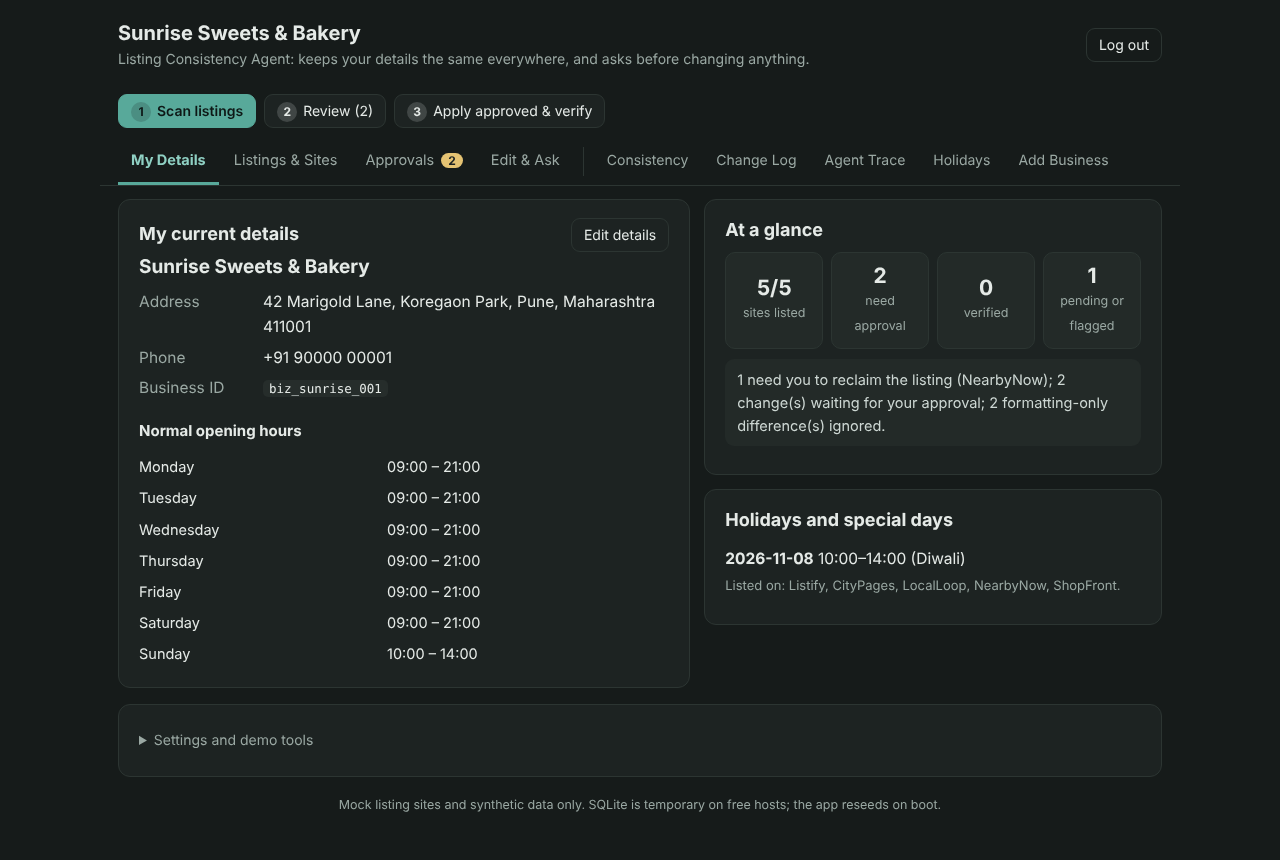
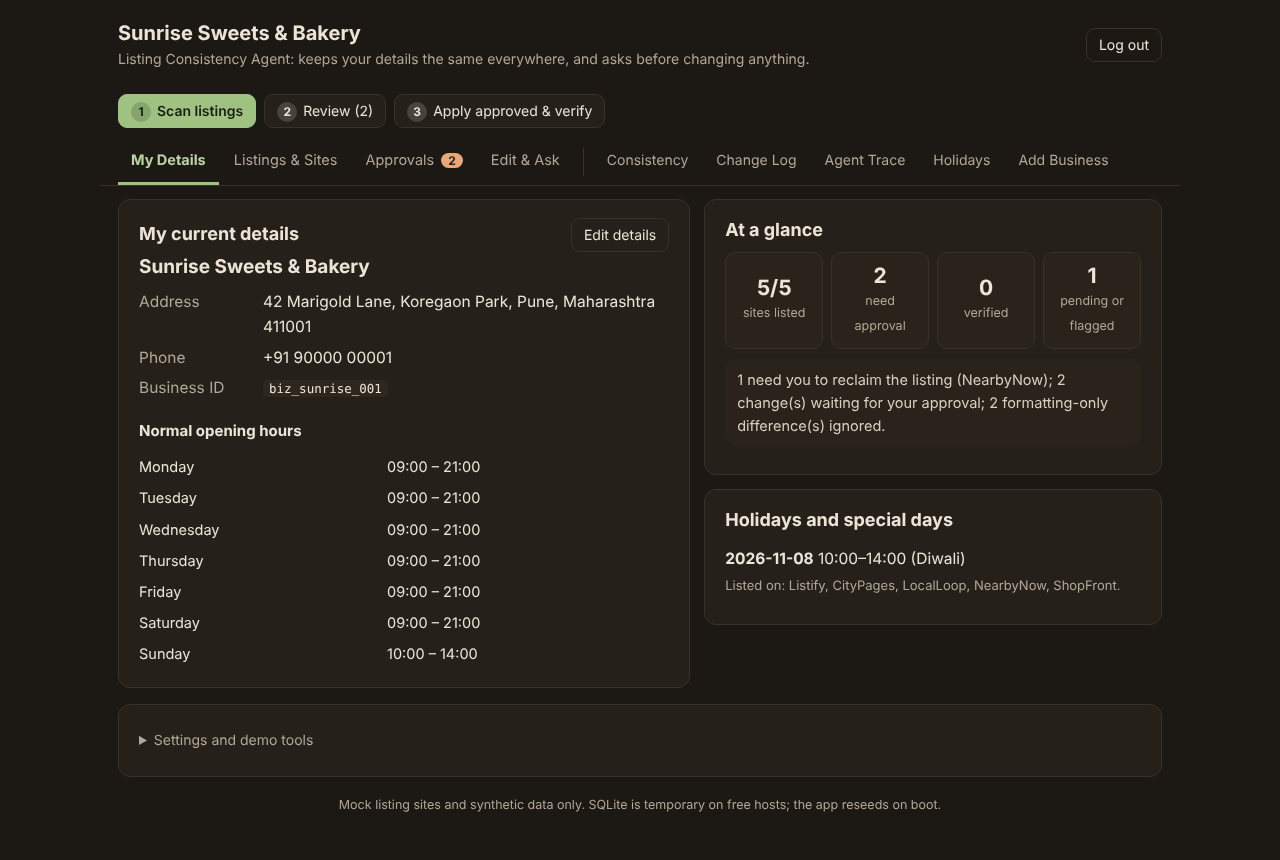
Warm beige palette: olive-sage actions, terracotta for "needs you"
- Replace the teal-green accent (still read as blue-ish) with a beige page,
  cream cards, warm brown text and a muted olive-sage accent; warm dark mode.
- Terracotta (--clay) marks what needs the owner, sand marks in-progress,
  rose red is kept for blocked/errors only so an action never looks like an error.
- Rename amber variables/classes to clay; fix leftover a-blue class (30-day
  holiday alert was unstyled).
- Contrast of every text/background pair checked at 4.5:1 or better.
- Screenshots regenerated (light and dark); README and PROGRESS updated.

Claude-Session: https://claude.ai/code/session_013nXkhptTHtEYhZRNWsHqPM

Changed region(s): [[0.0938, 0.0907, 0.2188, 0.1512], [0.0938, 0.1814, 0.1562, 0.2419], [0.3438, 0.1814, 0.375, 0.2116]]

diff --git a/web/src/styles.css b/web/src/styles.css
@@ -1,17 +1,17 @@
-/* Calm palette: warm off-white, soft charcoal text, one muted teal-green accent.
-   Meaning is carried by only four status colours: green = done, amber = needs you, red = blocked, teal = in progress. */
+/* Warm palette: beige page, cream cards, warm brown text, one muted olive-sage accent for actions.
+   Status colours carry meaning only: green = done, clay (terracotta) = needs you, sand = in progress, rose red = blocked. */
 :root {
-  --bg: #f7f6f2; --card: #fffefb; --ink: #2a3330; --muted: #5c6a65; --line: #e5e2d9;
-  --brand: #2f7468; --brand-hover: #28655b; --brand-ink: #ffffff; --brand-soft: #e2efeb; --brand-text: #1f5a50;
-  --green: #3b6b2a; --green-bg: #e7f0df; --amber: #7d5210; --amber-bg: #f7ecd2; --red: #a03428; --red-bg: #f8e3df;
-  --gray-bg: #eeece5; --soft-bg: #f0eee7; --soft-ink: #3d4a46;
+  --bg: #f4eee3; --card: #fbf8f1; --ink: #3a312a; --muted: #6a5e51; --line: #e2d8c6;
+  --brand: #54733f; --brand-hover: #486536; --brand-ink: #ffffff; --brand-soft: #ebe2cf; --brand-text: #3f5a2e;
+  --green: #36612a; --green-bg: #dfebd2; --clay: #8a431f; --clay-bg: #f4dcc8; --red: #9b2a38; --red-bg: #f7dadd;
+  --gray-bg: #ece4d5; --soft-bg: #f0e9db; --soft-ink: #4a4036;
 }
 @media (prefers-color-scheme: dark) {
   :root {
-    --bg: #161b1a; --card: #1d2322; --ink: #e5eae7; --muted: #9aa8a3; --line: #2c3532;
-    --brand: #58a99a; --brand-hover: #6ab9aa; --brand-ink: #0e1816; --brand-soft: #1f3a35; --brand-text: #8fd0c3;
-    --green: #a6d08c; --green-bg: #24331d; --amber: #e5c373; --amber-bg: #3a2f14; --red: #f0a198; --red-bg: #3b2220;
-    --gray-bg: #262d2b; --soft-bg: #232a28; --soft-ink: #cdd7d3;
+    --bg: #1c1814; --card: #25201a; --ink: #ece4d6; --muted: #b3a796; --line: #3a3228;
+    --brand: #9fc283; --brand-hover: #b2d398; --brand-ink: #17200f; --brand-soft: #332c20; --brand-text: #b9d3a2;
+    --green: #a8cf8d; --green-bg: #263320; --clay: #eaa87a; --clay-bg: #40291b; --red: #f2a3ad; --red-bg: #412127;
+    --gray-bg: #2d271f; --soft-bg: #29231c; --soft-ink: #d8cfbf;
   }
 }
 * { box-sizing: border-box; }
@@ -39,7 +39,7 @@ code { background: var(--gray-bg); padding: 1px 6px; border-radius: 5px; font-si
 @media (max-width: 560px) { .kv { grid-template-columns: 1fr; gap: 0; } .kv dd { margin-bottom: 8px; } }
 ul.plain { list-style: none; padding: 0; margin: 0; } ul.plain li { padding: 4px 0; }
 .struck { text-decoration: line-through; opacity: .6; }
-.tag { margin-left: 6px; background: var(--gray-bg); border-radius: 5px; padding: 0 7px; font-size: 12px; } .tag.warn { background: var(--amber-bg); color: var(--amber); }
+.tag { margin-left: 6px; background: var(--gray-bg); border-radius: 5px; padding: 0 7px; font-size: 12px; } .tag.warn { background: var(--clay-bg); color: var(--clay); }
 .row-between { display: flex; justify-content: space-between; gap: 8px; align-items: center; flex-wrap: wrap; }
 .plat { border-top: 1px solid var(--line); padding-top: 10px; margin-top: 14px; } .plat-h { display: flex; justify-content: space-between; align-items: center; gap: 8px; flex-wrap: wrap; } .plat-h h2, .plat-h h3 { margin: 0; }
 .empty { text-align: center; padding: 30px 12px; color: var(--ink); } .empty .muted { margin-top: 4px; }
@@ -63,19 +63,19 @@ label { font-size: 14px; } .radio { display: flex; gap: 8px; align-items: flex-s
 
 /* messages */
 .summary { background: var(--soft-bg); color: var(--soft-ink); padding: 9px 12px; border-radius: 9px; margin: 10px 0; font-size: 14.5px; } .summary.slim { padding: 6px 11px; font-size: 13.5px; }
-.alert { padding: 9px 12px; border-radius: 9px; margin: 8px 0; font-size: 14.5px; } .a-red { background: var(--red-bg); color: var(--red); } .a-amber { background: var(--amber-bg); color: var(--amber); } .a-soft { background: var(--soft-bg); color: var(--soft-ink); }
+.alert { padding: 9px 12px; border-radius: 9px; margin: 8px 0; font-size: 14.5px; } .a-red { background: var(--red-bg); color: var(--red); } .a-clay { background: var(--clay-bg); color: var(--clay); } .a-soft { background: var(--soft-bg); color: var(--soft-ink); }
 .err { color: var(--red); } .ok { color: var(--green); font-weight: 600; }
-.note { margin: 8px 0 0; padding: 8px 11px; border-radius: 8px; font-size: 13.5px; } .note.red { background: var(--red-bg); color: var(--red); } .note.amber { background: var(--amber-bg); color: var(--amber); }
+.note { margin: 8px 0 0; padding: 8px 11px; border-radius: 8px; font-size: 13.5px; } .note.red { background: var(--red-bg); color: var(--red); } .note.clay { background: var(--clay-bg); color: var(--clay); }
 .spin { display: inline-flex; align-items: center; gap: 8px; color: var(--muted); font-size: 14px; } .spin::before { content: ""; width: 14px; height: 14px; border-radius: 50%; border: 2px solid var(--line); border-top-color: var(--brand); animation: turn .8s linear infinite; }
 @keyframes turn { to { transform: rotate(360deg); } }
 
-/* status pills: green = done, amber = needs you, teal = in progress, red = blocked */
+/* status pills: green = done, clay = needs you, sand = in progress, rose red = blocked */
 .pill { display: inline-block; padding: 1px 10px; border-radius: 999px; font-size: 12.5px; font-weight: 600; white-space: nowrap; background: var(--gray-bg); color: var(--soft-ink); }
 .s-MATCH, .s-VERIFIED { background: var(--green-bg); color: var(--green); } .s-FORMAT_ONLY_EQUIVALENT, .s-APPROVED, .s-APPLIED { background: var(--brand-soft); color: var(--brand-text); }
-.s-MISMATCH, .s-PROPOSED { background: var(--amber-bg); color: var(--amber); } .s-PENDING_MODERATION { background: var(--amber-bg); color: var(--amber); border: 1px dashed var(--amber); }
+.s-MISMATCH, .s-PROPOSED { background: var(--clay-bg); color: var(--clay); } .s-PENDING_MODERATION { background: var(--clay-bg); color: var(--clay); border: 1px dashed var(--clay); }
 .s-FLAGGED_NOT_OWNER { background: var(--red-bg); color: var(--red); } .s-REJECTED { background: var(--gray-bg); color: var(--muted); }
 .chips { display: flex; flex-wrap: wrap; gap: 6px; margin: 10px 0; } .chip { padding: 3px 11px; border-radius: 999px; font-size: 13.5px; background: var(--gray-bg); }
-.c-info { background: var(--soft-bg); color: var(--soft-ink); } .c-NOT_SET { background: var(--red-bg); color: var(--red); } .c-RECORD_ONLY, .c-MISMATCH { background: var(--amber-bg); color: var(--amber); } .c-CONSISTENT { background: var(--green-bg); color: var(--green); }
+.c-info { background: var(--soft-bg); color: var(--soft-ink); } .c-NOT_SET { background: var(--red-bg); color: var(--red); } .c-RECORD_ONLY, .c-MISMATCH { background: var(--clay-bg); color: var(--clay); } .c-CONSISTENT { background: var(--green-bg); color: var(--green); }
 
 /* tabs */
 .sticky { position: sticky; top: 0; z-index: 20; background: var(--bg); margin: 0 -18px 14px; padding: 0 18px; box-shadow: 0 1px 0 var(--line); }
@@ -84,7 +84,7 @@ label { font-size: 14px; } .radio { display: flex; gap: 8px; align-items: flex-s
 .tab { flex: 0 0 auto; background: none; border: none; border-bottom: 3px solid transparent; color: var(--muted); padding: 10px 13px; font: inherit; font-size: 14.5px; cursor: pointer; white-space: nowrap; }
 .tab:hover { color: var(--ink); background: var(--gray-bg); border-radius: 8px 8px 0 0; } .tab.on { color: var(--brand-text); border-bottom-color: var(--brand); font-weight: 650; }
 .tab.more { font-size: 14px; } .tabsep { flex: 0 0 1px; background: var(--line); margin: 9px 8px; }
-.tabcount { margin-left: 7px; background: var(--amber); color: var(--card); border-radius: 999px; padding: 0 7px; font-size: 12px; font-weight: 700; }
+.tabcount { margin-left: 7px; background: var(--clay); color: var(--card); border-radius: 999px; padding: 0 7px; font-size: 12px; font-weight: 700; }
 
 /* details tab */
 .stats { display: grid; grid-template-columns: repeat(4, 1fr); gap: 8px; margin: 8px 0; }
@@ -98,8 +98,8 @@ details.tools { margin-top: 2px; } details.tools summary { cursor: pointer; colo
 .chipbar { display: flex; gap: 6px; flex-wrap: wrap; margin: 10px 0; }
 .fchip { background: var(--gray-bg); border: 1px solid transparent; color: var(--ink); border-radius: 999px; padding: 3px 12px; font: inherit; font-size: 13.5px; cursor: pointer; } .fchip:hover { border-color: var(--brand); }
 .fchip.on { background: var(--brand-soft); color: var(--brand-text); border-color: var(--brand); font-weight: 650; } .fchip .cnt { opacity: .75; font-size: 12.5px; margin-left: 3px; }
-.fcard { border: 1px solid var(--line); border-left: 4px solid var(--amber); border-radius: 10px; padding: 12px 14px; margin: 10px 0; background: var(--card); }
-.f-FLAGGED_NOT_OWNER { border-left-color: var(--red); background: var(--red-bg); } .f-PENDING_MODERATION { border-left-color: var(--amber); background: var(--amber-bg); }
+.fcard { border: 1px solid var(--line); border-left: 4px solid var(--clay); border-radius: 10px; padding: 12px 14px; margin: 10px 0; background: var(--card); }
+.f-FLAGGED_NOT_OWNER { border-left-color: var(--red); background: var(--red-bg); } .f-PENDING_MODERATION { border-left-color: var(--clay); background: var(--clay-bg); }
 .f-VERIFIED, .f-MATCH { border-left-color: var(--green); } .f-REJECTED { border-left-color: var(--muted); opacity: .8; } .f-APPLIED, .f-APPROVED { border-left-color: var(--brand); }
 .fc-top { display: flex; justify-content: space-between; gap: 8px; align-items: center; } .fc-diff { display: grid; grid-template-columns: 1fr auto 1fr; gap: 10px; align-items: center; margin: 8px 0; }
 .arrow { color: var(--muted); } .lbl { font-size: 12px; text-transform: uppercase; letter-spacing: .04em; color: var(--muted); } .reason { margin: 2px 0; color: var(--muted); font-size: 13.5px; }
@@ -117,7 +117,7 @@ table.compact td:has(.small), table.compact td:has(.pre) { white-space: normal; 
 table.mini th, table.mini td { font-size: 13px; }
 .filters { display: flex; gap: 8px; align-items: center; justify-content: space-between; flex-wrap: wrap; }
 .kind { font-size: 12px; padding: 0 8px; border-radius: 5px; background: var(--gray-bg); white-space: nowrap; }
-.k-details, .k-approval, .k-site { background: var(--brand-soft); color: var(--brand-text); } .k-holiday { background: var(--amber-bg); color: var(--amber); } .k-verified { background: var(--green-bg); color: var(--green); }
+.k-details, .k-approval, .k-site { background: var(--brand-soft); color: var(--brand-text); } .k-holiday { background: var(--clay-bg); color: var(--clay); } .k-verified { background: var(--green-bg); color: var(--green); }
 .chk span { margin-right: 6px; }
 
 /* edit & ask */
@@ -139,11 +139,11 @@ ul.hol { list-style: none; padding: 0; margin: 10px 0; } ul.hol li { display: fl
 @keyframes bob { 50% { transform: translateY(-4px) rotate(-6deg); } }
 .tstep { position: relative; display: flex; gap: 10px; padding: 9px 10px 9px 0; border-top: 1px solid var(--line); border-radius: 8px; transition: background .2s; } .tstep:first-of-type { border-top: none; }
 .tstep .dot { position: absolute; left: -29px; top: 13px; width: 12px; height: 12px; border-radius: 50%; background: var(--card); border: 2px solid var(--muted); z-index: 2; transition: transform .2s, border-color .2s, background .2s; }
-.tstep .dot.d-Gemini { border-color: var(--brand); } .tstep .dot.d-Fallback { border-color: var(--amber); } .tstep .dot.d-Blocked { border-color: var(--red); background: var(--red-bg); }
+.tstep .dot.d-Gemini { border-color: var(--brand); } .tstep .dot.d-Fallback { border-color: var(--clay); } .tstep .dot.d-Blocked { border-color: var(--red); background: var(--red-bg); }
 .tstep.passed .dot { background: var(--brand); border-color: var(--brand); } .tstep.now { background: var(--brand-soft); } .tstep.now .dot { transform: scale(1.4); background: var(--brand); border-color: var(--brand); } .tstep.tr-Blocked.now { background: var(--red-bg); }
 .tbody { min-width: 0; flex: 1; } .thead { display: flex; gap: 8px; align-items: center; flex-wrap: wrap; font-size: 13px; } .tno, .thead .time, .thead .dur { color: var(--muted); font-size: 12.5px; } .thead .dur { margin-left: auto; }
 .tout { font-size: 14px; margin-top: 3px; word-break: break-word; } .tin { font-size: 12.5px; color: var(--muted); font-family: ui-monospace, Menlo, Consolas, monospace; word-break: break-all; } .tnote { font-size: 12.5px; color: var(--muted); font-style: italic; }
-.dbadge { padding: 0 9px; border-radius: 999px; font-size: 12px; font-weight: 600; white-space: nowrap; background: var(--gray-bg); color: var(--soft-ink); } .d-Gemini { background: var(--brand-soft); color: var(--brand-text); } .d-Fallback { background: var(--amber-bg); color: var(--amber); } .d-Blocked { background: var(--red-bg); color: var(--red); }
+.dbadge { padding: 0 9px; border-radius: 999px; font-size: 12px; font-weight: 600; white-space: nowrap; background: var(--gray-bg); color: var(--soft-ink); } .d-Gemini { background: var(--brand-soft); color: var(--brand-text); } .d-Fallback { background: var(--clay-bg); color: var(--clay); } .d-Blocked { background: var(--red-bg); color: var(--red); }
 .hint { margin: 2px 0 10px; } .trace { max-height: 420px; overflow: auto; font-size: 13px; } .tr { display: flex; gap: 8px; padding: 5px 0; border-top: 1px solid var(--line); align-items: baseline; } .tr-Blocked { background: var(--red-bg); } .tr .tool { flex: 0 0 auto; } .tr .tout { margin: 0; }
 @media (max-width: 560px) { .trace-scroll { padding-left: 38px; } }
 @media (prefers-reduced-motion: reduce) { .walker, .rail-done, .tstep .dot, .spin::before { transition: none; animation: none; } .walker-emoji { animation: none; } }

diff --git a/web/src/tabs/ApprovalsTab.tsx b/web/src/tabs/ApprovalsTab.tsx
@@ -73,7 +73,7 @@ function Card({ r, busy, act }: { r: Row; busy: boolean; act: Ctx["act"] }) {
       {r.state === "REJECTED" && <div className="actions"><span className="muted">You rejected this change; nothing will be sent.</span><button className="btn small ghost" disabled={busy} onClick={() => act(() => api(`/api/fields/${r.fieldId}/approve`, {}))}>Approve after all</button></div>}
       {r.state === "APPROVED" && <div className="actions"><span className="muted">Approved — it is sent when you press “Apply approved &amp; verify”.</span><button className="btn small ghost" onClick={() => act(() => api(`/api/fields/${r.fieldId}/reject`, {}))}>Reject instead</button></div>}
       {r.state === "FLAGGED_NOT_OWNER" && <p className="note red">Manual step for you: this listing is claimed by another account, so the agent did not try to edit it. Ask the owner of that account to release it, or claim it on the site yourself (any OTP/CAPTCHA is yours to complete), then scan again.</p>}
-      {r.state === "PENDING_MODERATION" && <p className="note amber">The site accepted the edit but its moderator has not approved it yet, so the public page still shows the old value. (Demo: approve it at <a href="/mock/admin" target="_blank" rel="noreferrer">/mock/admin</a>, then press “Apply approved &amp; verify” to re-check.)</p>}
+      {r.state === "PENDING_MODERATION" && <p className="note clay">The site accepted the edit but its moderator has not approved it yet, so the public page still shows the old value. (Demo: approve it at <a href="/mock/admin" target="_blank" rel="noreferrer">/mock/admin</a>, then press “Apply approved &amp; verify” to re-check.)</p>}
     </div>
   );
 }

diff --git a/web/src/Tests.tsx b/web/src/Tests.tsx
@@ -74,7 +74,7 @@ export default function TestsPage({ me, onLogout }: { me: Me; onLogout: () => vo
                   <div>
                     <table className="mini"><thead><tr><th>Check</th><th></th><th>Detail</th></tr></thead>
                       <tbody>{r.checks.map((c, i) => <tr key={i}><td>{c.name}</td><td><span className={c.pass ? "meter-ok" : "meter-bad"}>{c.pass ? "Pass" : "Fail"}</span></td><td>{c.detail}</td></tr>)}</tbody></table>
-                    {(r.fallbacks.length > 0 || r.blocked.length > 0) && <p className="note amber">{r.fallbacks.length} fallback(s), {r.blocked.length} guardrail block(s) in this run.</p>}
+                    {(r.fallbacks.length > 0 || r.blocked.length > 0) && <p className="note clay">{r.fallbacks.length} fallback(s), {r.blocked.length} guardrail block(s) in this run.</p>}
                     <div className="trace">{r.trace.map((x) => <div key={x.id} className={`tr tr-${x.decider}`}><span className={`dbadge d-${x.decider}`}>{x.decider}</span><code className="tool">{x.tool}</code><span className="tout">{x.output_summary}</span></div>)}</div>
                     {r.screenshots.length > 0 && <p className="muted small">Screenshots saved: {r.screenshots.join(", ")}</p>}
                   </div>

diff --git a/web/src/tabs/EditTab.tsx b/web/src/tabs/EditTab.tsx
@@ -70,10 +70,10 @@ function AskBox({ st, act, go }: Ctx) {
           {pv.links?.length > 0 && <div className="actions">{pv.links.map((l: any) => <button key={l.tab} className="btn tiny" onClick={() => go(l.tab)}>{l.label}</button>)}</div>}
         </div>
       )}
-      {pv?.status === "ask" && <div className="alert a-amber" aria-live="polite">{pv.question}</div>}
+      {pv?.status === "ask" && <div className="alert a-clay" aria-live="polite">{pv.question}</div>}
       {ref?.verdict === "agree" && <p className="muted small">{ref.note}</p>}
       {ref?.verdict === "conflict" && (
-        <div className="alert a-amber">
+        <div className="alert a-clay">
           <b>The two readers disagree — which is right?</b>
           {(["deterministic", "gemini"] as const).map((k) => (
             <label key={k} className="radio">

diff --git a/web/src/tabs/HolidaysTab.tsx b/web/src/tabs/HolidaysTab.tsx
@@ -13,7 +13,7 @@ export default function HolidaysTab({ st, act, rev }: Ctx) {
     <section className="card">
       <h2>Upcoming holidays <span className="muted">(next {fs.windowDays} days)</span></h2>
       {fs.alerts.map((a: any) => (
-        <div key={a.holidayId} className={`alert ${a.milestone === 7 ? "a-red" : a.milestone === 14 ? "a-amber" : "a-blue"}`}><b>{a.milestone}-day alert:</b> {a.message}</div>
+        <div key={a.holidayId} className={`alert ${a.milestone === 7 ? "a-red" : a.milestone === 14 ? "a-clay" : "a-soft"}`}><b>{a.milestone}-day alert:</b> {a.message}</div>
       ))}
       {fs.next && (
         <div className="ready" title={fs.formula}>

diff --git a/README.md b/README.md
@@ -103,7 +103,7 @@ GitHub will ask you to sign in in the browser the first time (Git Credential Man
 | **Agentic capability (25)** | Planner + 8-tool registry; deterministic and Gemini planners share it; per-step decisions; visible timestamped trace with decider badges; human-in-the-loop `ask_owner`; guardrails in code; fallback on every LLM failure; idempotent apply, re-verify loop | `src/agent/tools.ts`, `planners.ts`, `geminiPlanner.ts`, `guard.ts`, `loop.ts` |
 | **Technical implementation (20)** | TypeScript end to end; Express + React/Vite + SQLite; Zod everywhere; per-field state machine with enforced transitions; Playwright + HTTP readers; Gemini Interactions API with queue/cache/retry/timeout; 100+ automated tests; Docker + `/health`; works without a key | `src/core/states.ts`, `src/agent/llm.ts`, `src/agent/reader.ts`, `tests/`, `Dockerfile` |
 | **Innovation (15)** | Holiday Foresight (chips, 30/14/7 alerts, readiness formula, never-auto-applied drafts); plain-language closures with live preview, relative-date resolution, one clarifying question, Gemini cross-check where the owner breaks ties; visible "Blocked by guardrail" proof with a rogue-planner demo | `src/foresight/index.ts`, `src/nl/`, `/tests` page |
-| **UX (10)** | One console: record, holidays, change box, run buttons, approval cards, before/after table (CSV/print), trace; distinct colours and plain-English reasons for pending/flagged; responsive (checked at 390 px, no horizontal scroll); accessible labels, focus rings, calm teal-green palette (no blue), light/dark | `web/src/App.tsx`, `web/src/styles.css` |
+| **UX (10)** | One console: record, holidays, change box, run buttons, approval cards, before/after table (CSV/print), trace; distinct colours and plain-English reasons for pending/flagged; responsive (checked at 390 px, no horizontal scroll); accessible labels, focus rings, warm beige palette with olive-sage actions and terracotta for "needs you" (no blue), light/dark | `web/src/App.tsx`, `web/src/styles.css` |
 | **Presentation (10)** | Self-contained written evidence (no links needed), real-run evidence with screenshots, Mermaid architecture, slide outline built from run data, honest limitations | `evidence/SUMMARY.md`, `docs/` |
 
 ## The console: nine tabs

diff --git a/PROGRESS.md b/PROGRESS.md
@@ -82,3 +82,6 @@ Request: drop the blue, use a gentler colour, remove the emojis, make the first 
 Done: new palette in `web/src/styles.css` (warm off-white, deep teal-green accent; four status colours only: green = done, amber = needs you, teal = in progress, red = blocked; every text/background pair checked at 4.5:1 or better, light and dark). All emojis and symbol icons removed from the console and from the mock listing pages (Address / Phone labels instead); the only one left is the small robot in the Agent Trace walker. Header is the business name and Log out; demo links moved into a collapsed "Settings and demo tools" panel; a "Start here" card with one button shows until the first scan; step numbers are CSS circles; tabs are grouped (four everyday tabs, a thin divider, quieter secondary tabs); copy shortened; consistency table columns narrowed so the status labels fit. UI test updated for the new button/heading text (no assertion weakened).
 Note: the mock listing sites keep their own themes (Site A is blue on purpose: it stands in for a third-party company site, not our console).
 Observed once: `tests/ui.test.ts` (the long scan + edit + change-log test) timed out/failed in one full run right after `tsc`; not reproduced in three later runs (1 isolated, 2 full, 273/273). If it recurs, raise that test's 30 s limit; the failure message was not captured.
+
+### Palette revision (beige)
+Feedback: the teal-green still looked too close to blue. Replaced it in `web/src/styles.css`: beige page `#f4eee3`, cream cards, warm brown text; olive-sage `#54733f` for actions and focus; terracotta (`--clay`) for "needs you" and the waiting-count badge; sand for "in progress"; rose red only for blocked or errors; warm dark mode (brown, not grey). Chosen on purpose: primary buttons are not red/terracotta, because an action must not look like an error. All text/background pairs checked at 4.5:1 or better in both modes. Also fixed a leftover `a-blue` class (30-day holiday alert had no style) and renamed `amber` classes/variables to `clay`.
